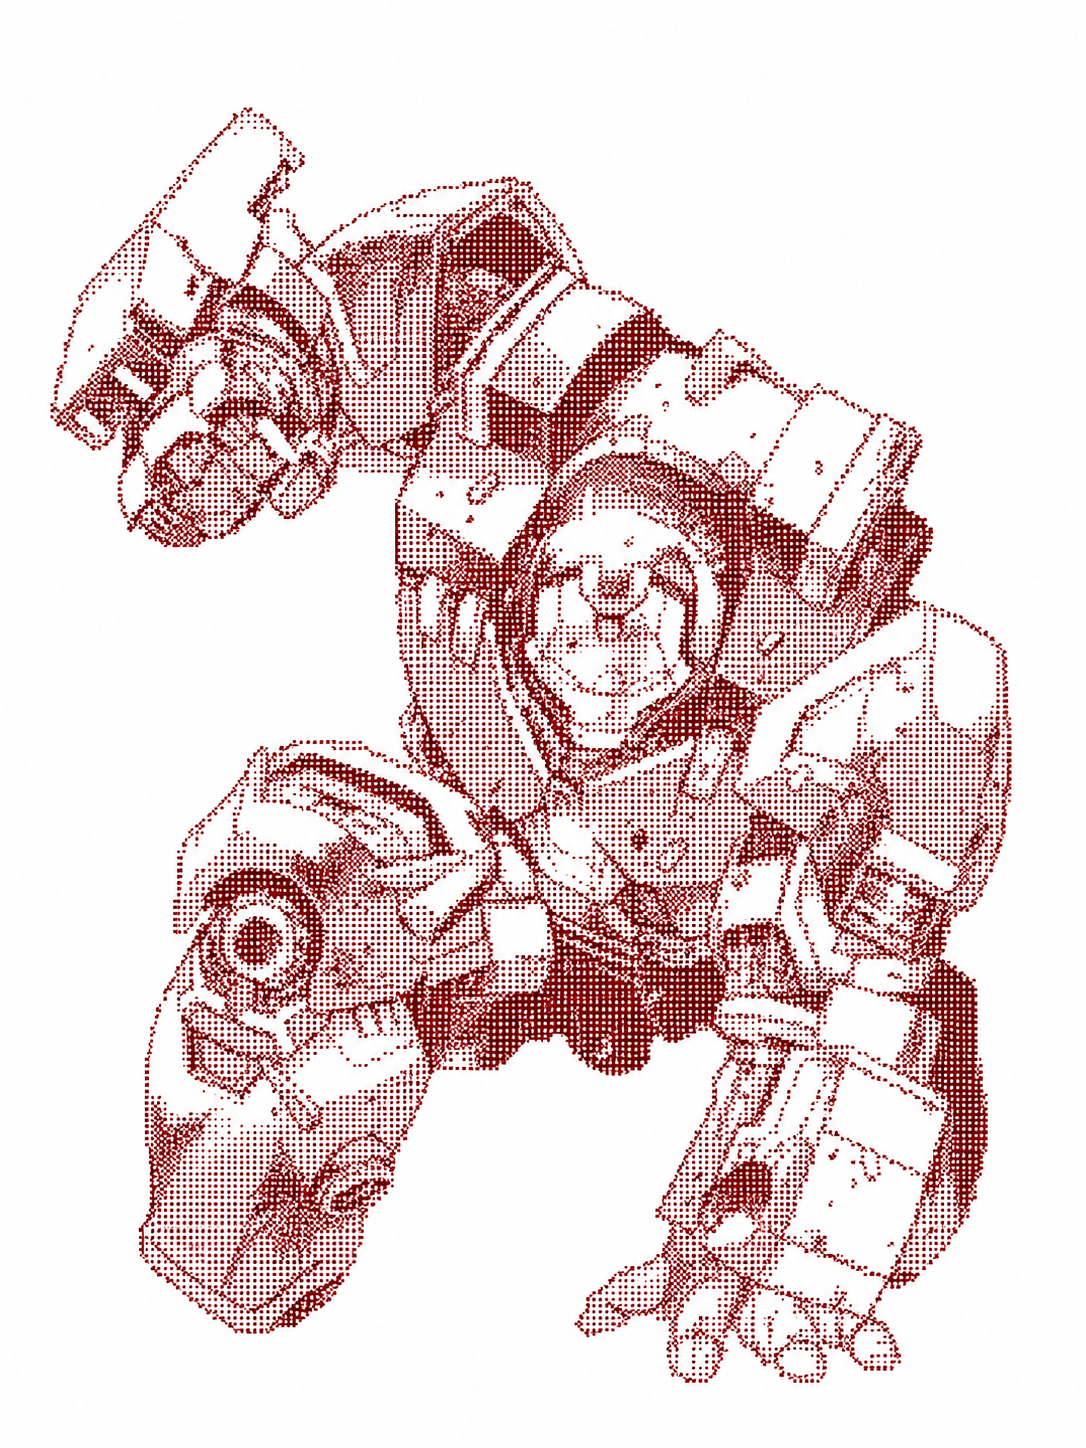
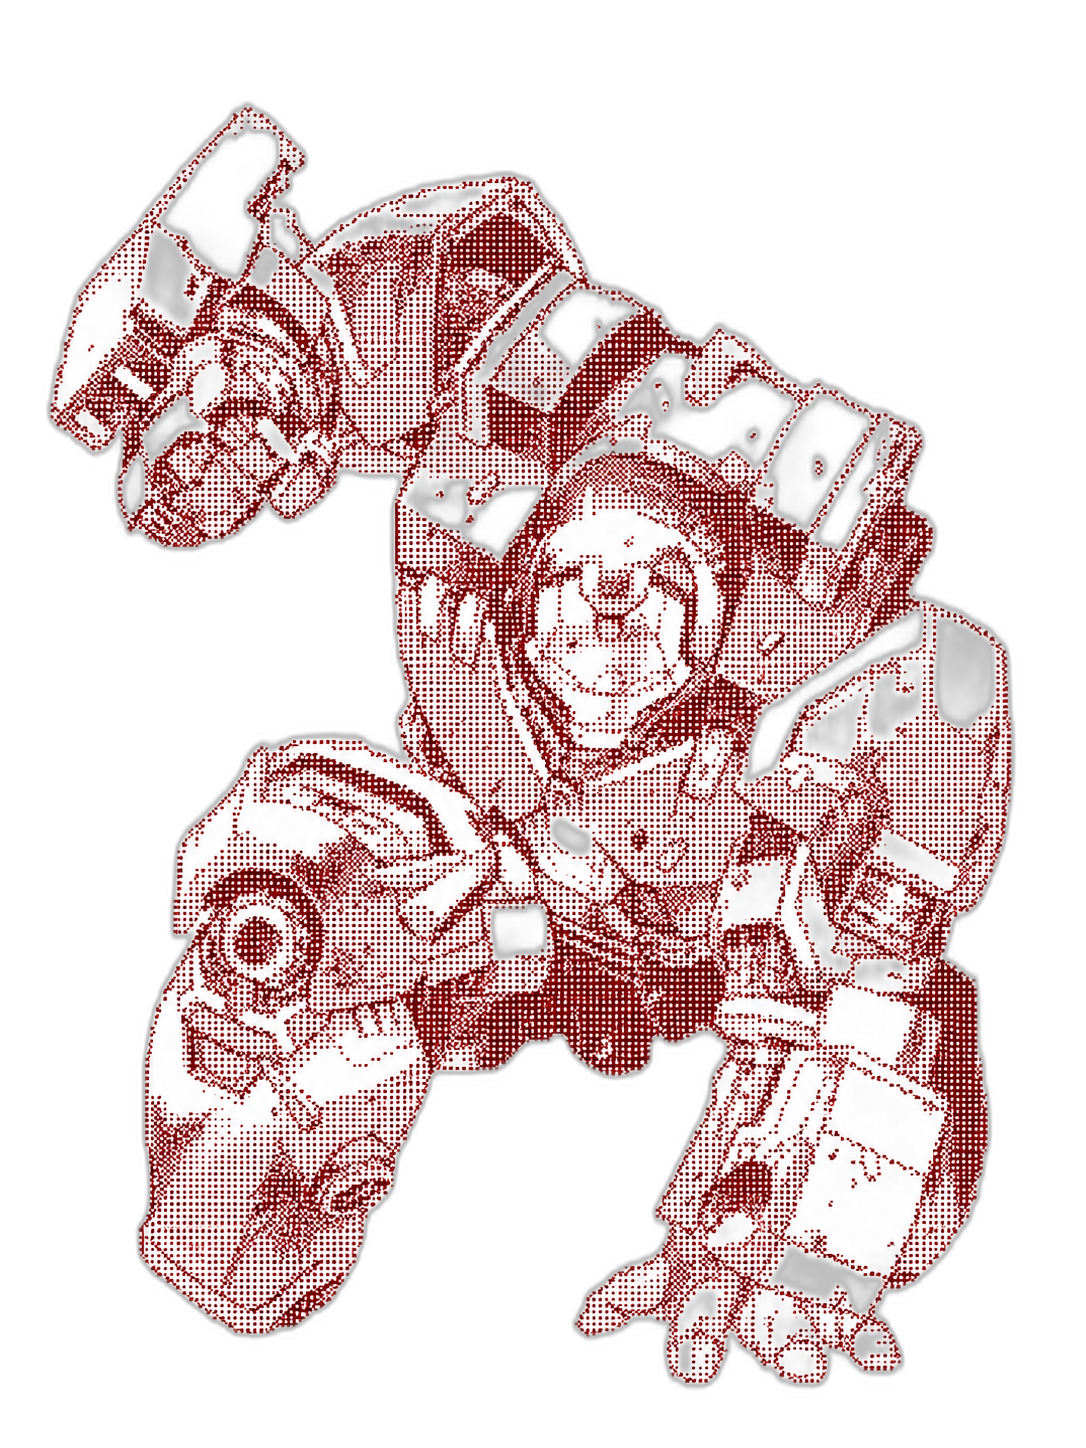
feat: transparent robot PNG via rembg + clean hover effect

diff --git a/src/app/page.tsx b/src/app/page.tsx
@@ -47,27 +47,29 @@ export default function Home() {
         >
           Homie
         </span>
-        <div className="flex items-center gap-6">
+        <button
+          type="button"
+          onClick={openStudio}
+          className="text-sm font-medium cursor-pointer group"
+          style={{
+            color: 'var(--color-primary)',
+            fontFamily: "'CursorGothic', sans-serif",
+            background: 'none',
+            border: 'none',
+            padding: 0,
+            position: 'relative',
+          }}
+        >
+          <span style={{ display: 'inline-block' }}>Try it →</span>
           <span
-            className="text-sm hidden sm:block"
-            style={{ color: 'var(--color-muted)', fontFamily: "'CursorGothic', sans-serif" }}
-          >
-            Cursor Physical AI Hackathon · Almaty 2026
-          </span>
-          <button
-            type="button"
-            onClick={openStudio}
-            className="text-sm font-medium transition-opacity hover:opacity-70 cursor-pointer"
+            className="absolute left-0 right-0 group-hover:opacity-100 group-active:opacity-100 opacity-0 transition-opacity duration-100"
             style={{
-              color: 'var(--color-primary)',
-              fontFamily: "'CursorGothic', sans-serif",
-              background: 'none',
-              border: 'none',
+              bottom: '-2px',
+              height: '1px',
+              background: 'var(--color-primary)',
             }}
-          >
-            Try it →
-          </button>
-        </div>
+          />
+        </button>
       </nav>
 
       {/* ── Hero ── */}
@@ -155,14 +157,35 @@ export default function Home() {
         </div>
 
         {/* Right: robot image */}
-        <div className="hidden md:flex shrink-0 items-center justify-center" style={{ width: '420px' }}>
+        <div
+          className="hidden md:block shrink-0 relative group"
+          style={{ width: '420px' }}
+        >
           {/* eslint-disable-next-line @next/next/no-img-element */}
           <img
             src="/robot-hero.png"
             alt="Homie robot"
+            draggable={false}
             width={420}
             height={560}
-            style={{ objectFit: 'contain', width: '100%', height: 'auto' }}
+            style={{
+              objectFit: 'contain',
+              width: '100%',
+              height: 'auto',
+              pointerEvents: 'none',
+              userSelect: 'none',
+              transition: 'filter 0.25s ease',
+            }}
+            className="group-hover:brightness-[0.65] group-hover:contrast-[1.4]"
+          />
+          {/* pixel dot overlay on hover */}
+          <div
+            className="absolute inset-0 opacity-0 group-hover:opacity-100 transition-opacity duration-250 pointer-events-none"
+            style={{
+              backgroundImage: 'radial-gradient(circle, rgba(100,0,0,0.18) 1px, transparent 1px)',
+              backgroundSize: '5px 5px',
+              mixBlendMode: 'multiply',
+            }}
           />
         </div>
       </section>
@@ -284,16 +307,47 @@ export default function Home() {
 
       {/* ── Footer ── */}
       <footer
-        className="border-t px-8 py-10 flex items-center justify-between flex-wrap gap-4"
-        style={{
-          borderColor: 'var(--color-hairline)',
-          fontFamily: "'CursorGothic', sans-serif",
-          fontSize: '13px',
-          color: 'var(--color-muted)',
-        }}
+        className="border-t"
+        style={{ borderColor: 'var(--color-hairline)' }}
       >
-        <span>Homie</span>
-        <span>Cursor Physical AI Hackathon · Almaty 2026</span>
+        {/* small top row */}
+        <div
+          className="px-8 pt-8 pb-6 flex items-center justify-between flex-wrap gap-4"
+          style={{
+            fontFamily: "'CursorGothic', sans-serif",
+            fontSize: '13px',
+            color: 'var(--color-muted)',
+          }}
+        >
+          <span>© 2026 Homie</span>
+          <span>© 2026</span>
+        </div>
+
+        {/* giant wordmark with bottom fade */}
+        <div
+          className="relative overflow-hidden select-none"
+          style={{ height: '22vw', minHeight: '120px' }}
+        >
+          <span
+            style={{
+              fontFamily: "'CursorGothic', sans-serif",
+              fontSize: '23vw',
+              fontWeight: 400,
+              letterSpacing: '-0.04em',
+              color: 'var(--color-hairline-strong)',
+              lineHeight: 1,
+              position: 'absolute',
+              bottom: '-0.12em',
+              left: '50%',
+              transform: 'translateX(-50%)',
+              whiteSpace: 'nowrap',
+              WebkitMaskImage: 'linear-gradient(to bottom, black 0%, transparent 80%)',
+              maskImage: 'linear-gradient(to bottom, black 0%, transparent 80%)',
+            }}
+          >
+            Homie
+          </span>
+        </div>
       </footer>
     </main>
   );
